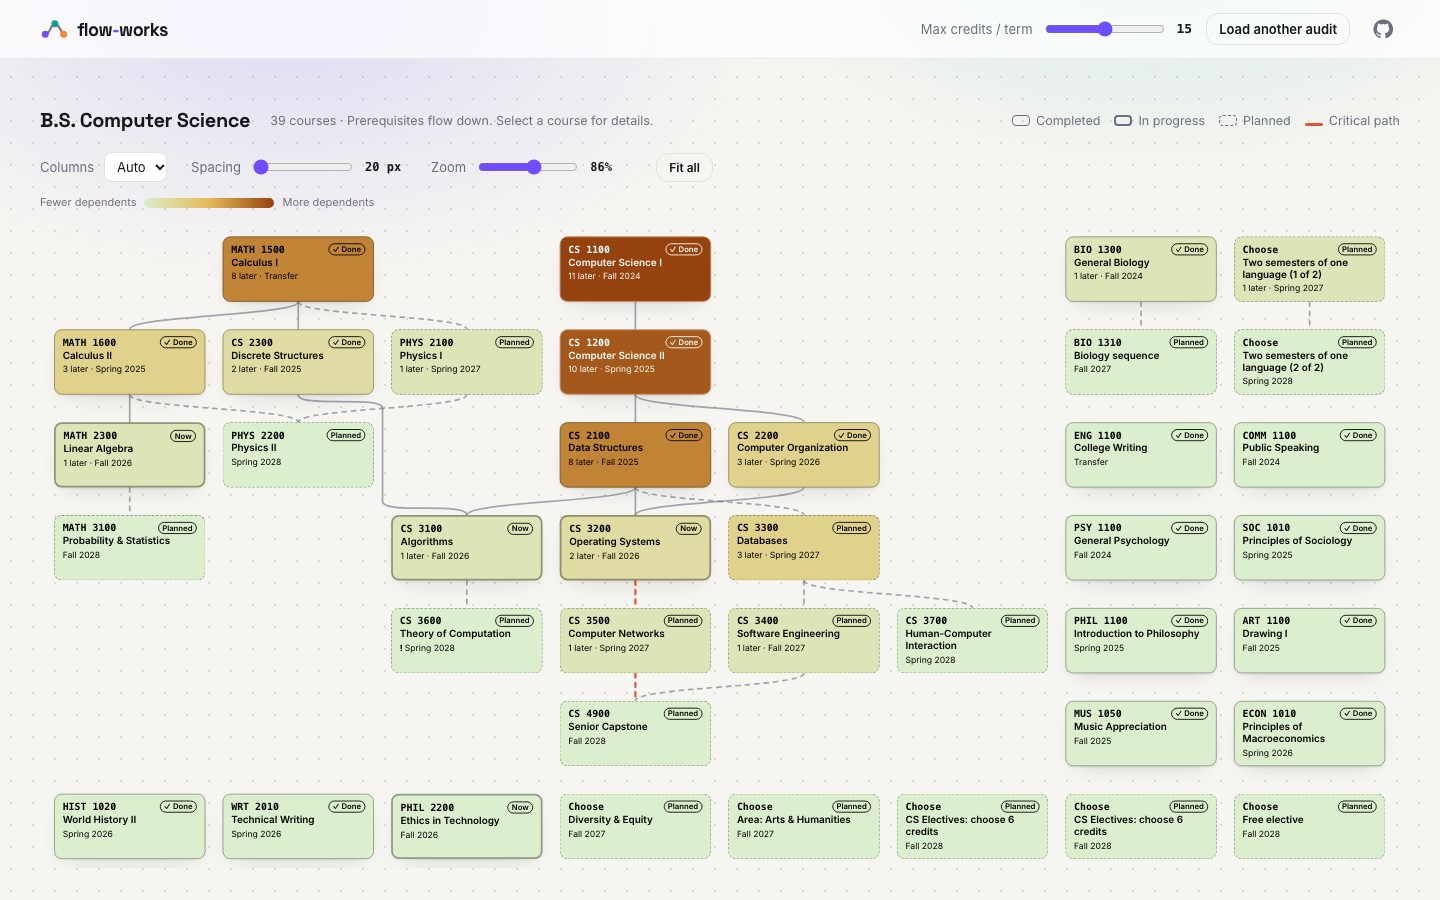
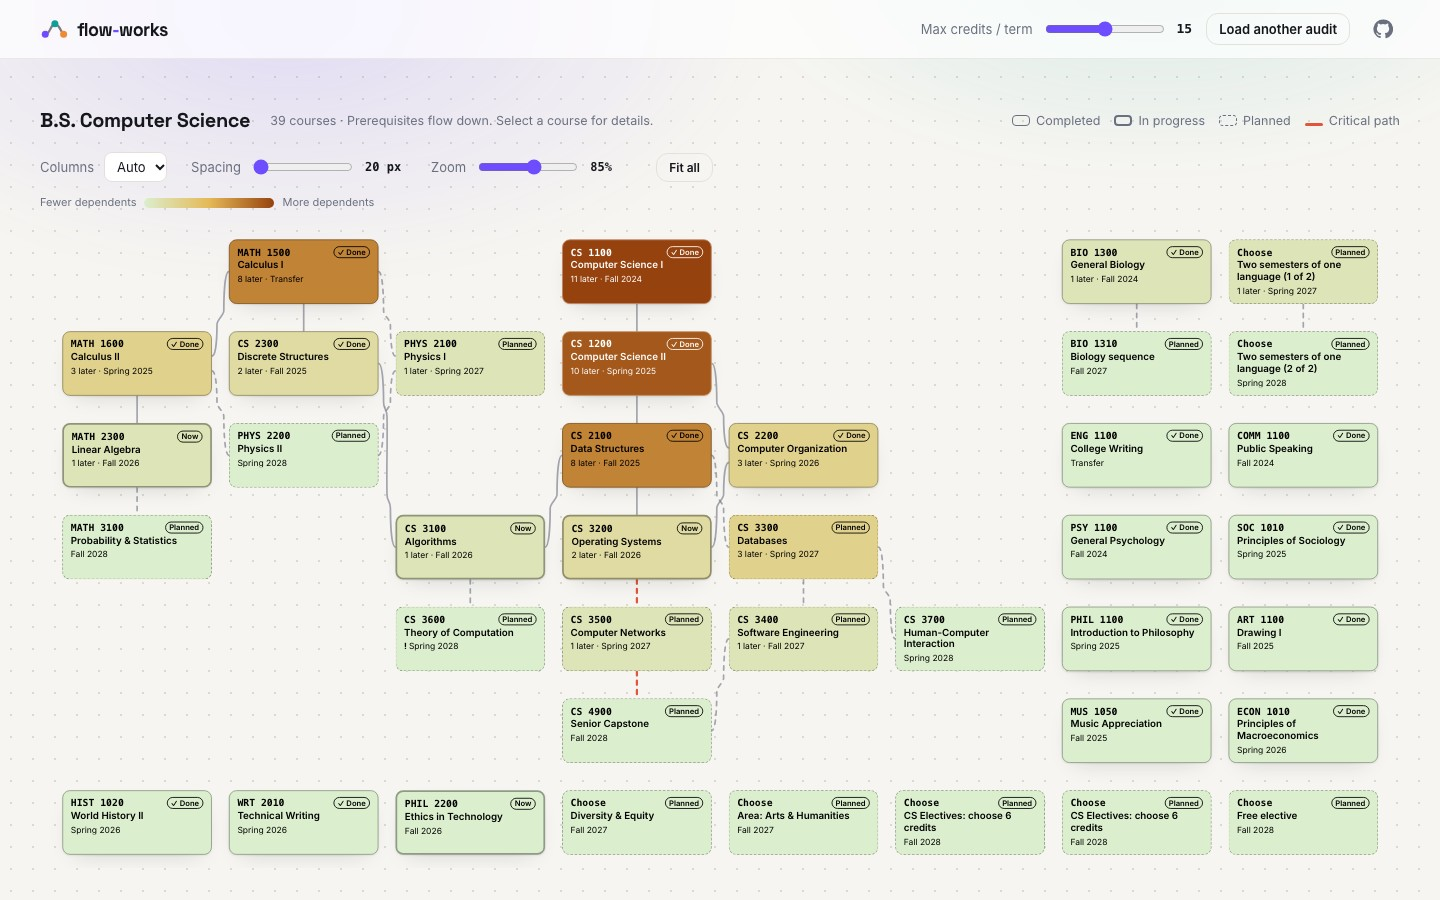
Separate prerequisite curves and restore the Foundations of Math course map

diff --git a/model.js b/model.js
@@ -35,7 +35,22 @@ export function parseAudit(audit, prereqRows = {}) {
   if (!Array.isArray(audit?.blockArray)) throw new Error("That doesn't look like a Degree Works audit.");
   const blocks = audit.blockArray;
   const degree = blocks.find(b => b.requirementType === 'DEGREE') || blocks[0];
-  const pre = code => prereqGroups(prereqRows[code]);
+  const sketch = {
+    'MATH 1170': [['MATH 1060']], 'ECON 2020': [['MATH 1060']],
+    'ACCT 2110': [['MATH 1170']], 'ECON 2100': [['MATH 1170']],
+    'FIN 3200': [['ECON 2020'], ['ACCT 2110']],
+    'ACCT 2120': [['ACCT 2110']], 'ECON 2110': [['ECON 2100']],
+  };
+  // This correction belongs to the supplied Foundations of Math course map, not other schools' MATH 1060.
+  let foundations = (audit.classInformation?.classArray || []).some(c =>
+    c.discipline === 'MATH' && c.number === '1060' && /foundations? (of )?math/i.test(c.courseTitle || ''));
+  for (const b of blocks) walk(b.ruleArray, r => {
+    if (r.advice?.courseArray?.some(c => c.discipline === 'MATH' && c.number === '1060' && /foundations? (of )?math/i.test(c.title || r.label || ''))) foundations = true;
+  });
+  const pre = code => {
+    const groups = prereqGroups(prereqRows[code]);
+    return groups.length ? groups : foundations && sketch[code] ? sketch[code].map(g => [...g]) : [];
+  };
 
   // A block hangs under whichever block's Block/Blocktype rule pulls it in; groups are the degree's direct children.
   const parent = {};
@@ -147,7 +162,7 @@ export function parseAudit(audit, prereqRows = {}) {
     title: major?.title || degree.title, degree: degree.title, catalog: degree.catalogYearLit || degree.catalogYear || '',
     pct: Math.round(+audit.auditHeader?.percentComplete || +degree.percentComplete || 0),
     total, applied, groups, courses, remaining, lastTerm: latest?.termLabel,
-    prereqs: Object.fromEntries(Object.keys(prereqRows).map(k => [k, prereqGroups(prereqRows[k])])),
+    prereqs: Object.fromEntries([...new Set([...Object.keys(prereqRows), ...(foundations ? Object.keys(sketch) : [])])].map(k => [k, pre(k)])),
   };
 }
 
@@ -290,6 +305,89 @@ export function degreeTree(a, width = 4) {
     bottom.fill(top + height, left, left + span);
   }
   return { nodes, links: a.edges.map(e => [byKey[e.from], byKey[e.to], e]) };
+}
+
+export function routePadding(T, gap) {
+  const events = T.links.filter(([p, c]) => c.level - p.level > 1)
+    .flatMap(([p, c]) => [[p.level + .5, 1], [c.level - .5, -1]])
+    .sort((p, q) => p[0] - q[0] || q[1] - p[1]);
+  let active = 0, peak = 0;
+  for (const [, delta] of events) peak = Math.max(peak, active += delta);
+  return Math.max(gap / 2 + 4, 12 + Math.ceil(peak / 2) * 6);
+}
+
+// Distinct perimeter ports and interval-reserved lanes prevent connections from sharing a stem.
+export function treeRoutes(T, { cw, ch, gx, gy, pad, py, minX, minL, width }) {
+  const boxes = new Map(T.nodes.map(n => [n, { x: (n.x - minX) * (cw + gx) + pad, y: (n.level - minL) * (ch + gy) + py }]));
+  const groups = new Map(T.nodes.map(n => [n, { top: [], bottom: [], left: [], right: [] }]));
+  const sides = new Map(T.nodes.map(n => [n, new Set()]));
+  const paths = T.links.map(([from, to], i) => {
+    const dx = to.x - from.x;
+    const pick = (node, role, side, fallback) => {
+      const key = role + side;
+      if (Math.abs(dx) < .8 || sides.get(node).has(key)) return fallback;
+      sides.get(node).add(key); return side;
+    };
+    const source = { node: from, other: to, side: pick(from, 'out', dx < 0 ? 'left' : 'right', 'bottom'), i };
+    const target = { node: to, other: from, side: pick(to, 'in', dx < 0 ? 'right' : 'left', 'top'), i };
+    groups.get(from)[source.side].push(source); groups.get(to)[target.side].push(target);
+    return { source, target, segments: [], long: to.level - from.level > 1 };
+  });
+  for (const [node, ports] of groups) for (const [side, ends] of Object.entries(ports)) {
+    const horizontal = side === 'top' || side === 'bottom', box = boxes.get(node);
+    ends.sort((a, b) => (horizontal ? a.other.x - b.other.x : a.other.level - b.other.level) || a.i - b.i);
+    ends.forEach((end, i) => {
+      const along = 12 + ((horizontal ? cw : ch) - 24) * (i + 1) / (ends.length + 1);
+      end.point = horizontal ? [box.x + along, box.y + (side === 'bottom' ? ch : 0)]
+        : [box.x + (side === 'right' ? cw : 0), box.y + along];
+    });
+  }
+  const maxRight = Math.max(...[...boxes.values()].map(b => b.x + cw));
+  const candidates = [];
+  for (let x = pad - 6; x >= 4; x -= 6) candidates.push(x);
+  for (let x = maxRight + 6; x <= width - 4; x += 6) candidates.push(x);
+  const columns = Math.ceil(Math.max(...T.nodes.map(n => n.x)) - minX);
+  for (let column = 0; column < columns; column++) {
+    const middle = pad + cw + column * (cw + gx) + gx / 2;
+    for (let offset = -Math.floor((gx / 2 - 5) / 6); offset <= Math.floor((gx / 2 - 5) / 6); offset++)
+      candidates.push(middle + offset * 6);
+  }
+  const reserved = new Map(candidates.map(x => [x, []]));
+  for (const path of paths.filter(p => p.long).sort((p, q) =>
+    (q.target.node.level - q.source.node.level) - (p.target.node.level - p.source.node.level))) {
+    const from = boxes.get(path.source.node), to = boxes.get(path.target.node);
+    const low = from.y + ch + gy / 4, high = to.y - gy / 4;
+    const ideal = (path.source.point[0] + path.target.point[0]) / 2;
+    const free = candidates.filter(x => !reserved.get(x).some(([a, b]) => a <= high && b >= low)
+      && ![...boxes.values()].some(b => b.y < high && b.y + ch > low && x > b.x - 4 && x < b.x + cw + 4));
+    if (!free.length) throw new Error('Not enough room to keep prerequisite connections separate.');
+    path.lane = free.reduce((best, x) => Math.abs(x - ideal) < Math.abs(best - ideal) ? x : best);
+    reserved.get(path.lane).push([low, high]);
+  }
+  for (const path of paths) {
+    const { source, target, segments } = path, a = source.point, b = target.point;
+    const sourceBox = boxes.get(source.node), targetBox = boxes.get(target.node);
+    const clear = Math.min(12, gx * .3);
+    const sourceSide = source.side === 'left' ? -1 : source.side === 'right' ? 1 : 0;
+    const targetSide = target.side === 'left' ? -1 : target.side === 'right' ? 1 : 0;
+    const out = [a[0] + sourceSide * clear, sourceBox.y + ch + gy / 4];
+    const into = [b[0] + targetSide * clear, targetBox.y - gy / 4];
+    const curve = (from, c1, c2, to) => segments.push({ from, c1, c2, to });
+    curve(a, sourceSide ? [out[0], a[1]] : [a[0], out[1]], [out[0], out[1] - gy / 8], out);
+    if (path.long) {
+      const start = [path.lane, sourceBox.y + ch + gy * .75], end = [path.lane, targetBox.y - gy * .75];
+      curve(out, [out[0], out[1] + gy / 4], [start[0], start[1] - gy / 4], start);
+      const dy = end[1] - start[1];
+      curve(start, [start[0] + .7, start[1] + dy / 3], [end[0] - .7, end[1] - dy / 3], end);
+      curve(end, [end[0], end[1] + gy / 4], [into[0], into[1] - gy / 4], into);
+    } else {
+      const dy = into[1] - out[1];
+      curve(out, [out[0], out[1] + dy / 3], [into[0], into[1] - dy / 3], into);
+    }
+    curve(into, [into[0], into[1] + gy / 8], targetSide ? [into[0], b[1]] : [b[0], b[1] - gy / 8], b);
+    path.d = `M${a.join(',')} ` + segments.map(s => `C${s.c1.join(',')} ${s.c2.join(',')} ${s.to.join(',')}`).join(' ');
+  }
+  return paths;
 }
 
 // A course's prerequisite tree (rows above) and what it unlocks (rows below), for the course modal. Shared courses

diff --git a/app.js b/app.js
@@ -1,4 +1,4 @@
-import { parseAudit, columns, analyze, degreeTree, courseTree, priorityColors } from './model.js';
+import { parseAudit, columns, analyze, degreeTree, courseTree, priorityColors, routePadding, treeRoutes } from './model.js';
 
 const $ = s => document.querySelector(s);
 const reduce = matchMedia('(prefers-reduced-motion: reduce)').matches;
@@ -270,7 +270,7 @@ function treeSize(T, rootIt) {
   const xs = T.nodes.map(n => n.x), lv = T.nodes.map(n => n.level);
   const minX = Math.min(0, ...xs), minL = Math.min(0, ...lv);
   const cw = rootIt ? TW : 176, ch = rootIt ? TH : 76;
-  const gx = rootIt ? TGX : +$('#layout-spacing').value, gy = rootIt ? TGY : gx + 12, pad = rootIt ? 0 : gx / 2 + 4;
+  const gx = rootIt ? TGX : +$('#layout-spacing').value, gy = rootIt ? TGY : gx + 12, pad = routePadding(T, gx);
   const py = rootIt ? 0 : 4;
   return { cw, ch, gx, gy, pad, py, minX, minL,
     width: (Math.max(0, ...xs) - minX + 1) * (cw + gx) - gx + pad * 2,
@@ -278,27 +278,20 @@ function treeSize(T, rootIt) {
 }
 
 function tree(T, rootIt) {
-  const { cw, ch, gx, gy, pad, py, minX, minL, width: Wd, height: Ht } = treeSize(T, rootIt);
+  const size = treeSize(T, rootIt), routes = treeRoutes(T, size);
+  const { cw, ch, gx, gy, pad, py, minX, minL, width: Wd, height: Ht } = size;
   const at = n => [(n.x - minX) * (cw + gx) + pad, (n.level - minL) * (ch + gy) + py];
   const box = h('div', { class: `tree${rootIt ? '' : ' overview'}`, style: `width:${Wd}px;height:${Ht}px` });
   const lines = svg('svg', { class: 'tree-lines', width: Wd, height: Ht, 'aria-hidden': 'true' });
   const state = n => n.kind === 'or' ? (n.options.find(o => o.code === n.pick)?.it?.status || 'missing') : n.it?.status || 'missing';
   const ring = n => Math.abs(n.level);
   const critLinks = new Set(A.critical.slice(1).map((k, i) => A.critical[i] + '>' + k));
-  T.links.forEach(([up, down, edge]) => {
-    const [x1, y1] = at(up), [x2, y2] = at(down), ax = x1 + cw / 2, ay = y1 + ch, bx = x2 + cw / 2, m = (ay + y2) / 2;
-    let path = `M${ax},${ay} C${ax},${m} ${bx},${m} ${bx},${y2}`;
-    if (down.level - up.level > 1) {
-      // Long connections travel in the gutters between fixed columns, without reserving card-sized gaps.
-      const column = bx < ax ? Math.ceil(up.x - minX) - .5 : Math.floor(up.x - minX) + .5;
-      const lane = column * (cw + gx) + pad + cw / 2, out = ay + gy / 2, into = y2 - gy / 2;
-      path = `M${ax},${ay} C${ax},${out} ${lane},${ay} ${lane},${out} L${lane},${into} C${lane},${y2} ${bx},${into} ${bx},${y2}`;
-    }
+  T.links.forEach(([up, down, edge], i) => {
     const from = edge?.from || up.it?.key, to = edge?.to || down.it?.key;
     const cls = edge
       ? [A.byKey[to].status === 'planned' && 'planned', critLinks.has(from + '>' + to) && 'crit'].filter(Boolean).join(' ')
       : state(up) === 'missing' ? 'miss' : state(down) === 'planned' ? 'planned' : '';
-    const p = svg('path', { d: path, class: cls,
+    const p = svg('path', { d: routes[i].d, class: cls,
       'data-from': from || '', 'data-to': to || '',
       style: '--c:var(--muted)' });
     lines.append(p);

diff --git a/bookmarklet.js b/bookmarklet.js
@@ -22,7 +22,7 @@ void (async () => {
       for (const r of rules || []) {
         const opts = r.advice?.courseArray || [];
         if (opts.length <= 4) for (const c of opts)
-          if (!/@/.test(c.discipline + c.number) && c.prerequisiteExists !== 'N') codes.add(c.discipline + ' ' + c.number);
+          if (!/@/.test(c.discipline + c.number)) codes.add(c.discipline + ' ' + c.number);
         walk(r.ruleArray);
       }
     })((audit.blockArray || []).flatMap(b => b.ruleArray || []));

diff --git a/README.md b/README.md
@@ -12,6 +12,8 @@ Flow-works turns an Ellucian Degree Works audit into a top-to-bottom prerequisit
 
 The whole degree fits into one canvas on load, including courses without prerequisite links. Branches stay close together, their starting courses sit above the fork, and shared prerequisites appear once. Courses can stagger instead of stretching every branch to the same row. Rows are not terms.
 
+Connections fan out as separate curves from individual attachment points on the top, bottom, and sides of a card. Long connections reserve their own lanes while they overlap in height. Lines can cross, but never merge into a shared stem or run through a card.
+
 Card color shows how many later courses depend on a course, directly or through another prerequisite: **dark orange for the biggest bottlenecks, through amber to green for fewer dependents**. Each downstream course counts once, even when several paths lead to it. Completed courses retain their dependency color and have a Done badge. Status, term, and dependency count are also available as text.
 
 **Columns: Auto** balances the chart for your screen. Choose a column count or change **Spacing** to arrange it yourself. **Fit all** fits both width and height; **Zoom** lets you inspect more closely. Column and spacing preferences stay in your browser. Very large degrees fit at a smaller scale; select any course to read its details at full size.
@@ -48,6 +50,8 @@ Remaining requirements come from each rule's *still needed* advice. Choice rules
 3. Each term stays under the max-credits limit.
 
 Prerequisites are read as an AND of OR-groups. Test-score alternatives and parenthesis nesting are ignored. The planner doesn't know which terms a course is offered in, so treat the plan as a starting point for a conversation with your advisor. It isn't a registration plan.
+
+For audits identifying **MATH 1060 as Foundations of Math**, blank prerequisite rows use the supplied business course map: MATH 1060 → MATH 1170 and ECON 2020; MATH 1170 → ACCT 2110 and ECON 2100; ACCT 2110 plus ECON 2020 → FIN 3200; ACCT 2110 → ACCT 2120; ECON 2100 → ECON 2110. Existing prerequisite rows are preserved. This correction applies to saved audits and JSON imports as well as the bookmarklet. The bookmarklet also checks named courses even when the source's prerequisite flag says No.
 
 ## Development
 
